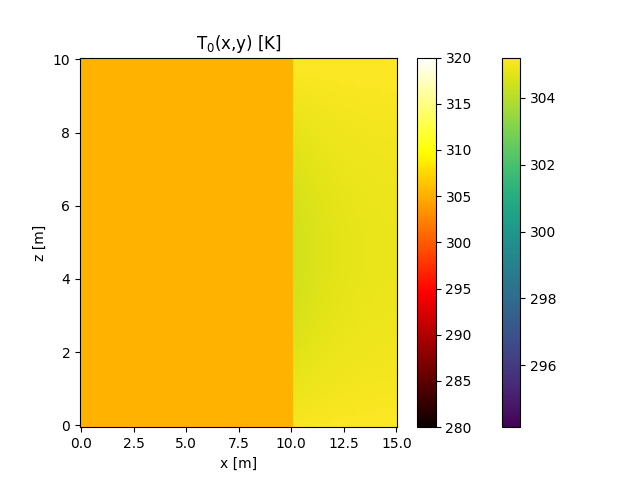
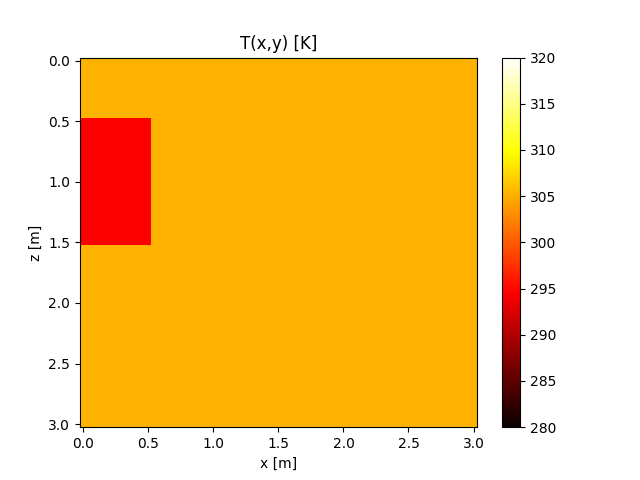
Distribution initiale

diff --git a/methode_matrice_2D.py b/methode_matrice_2D.py
@@ -30,7 +30,9 @@ def methode_matrice_2D_A(planete, p, l_x, l_z, Lx, Lz, d , sparse = True, abri=T
 
     else : # Matrices creuses
      A=np.zeros((Nx*Nz,Nx*Nz),dtype=np.double)
-        
+     M=np.zeros((Nx*Nz,Nx*Nz),dtype=np.double)
+
+
     def Aindex(i,j): #Associé la case i,j à sa colone dans la matrice M
          index=(j-1)*Nz+i
          return index-1
@@ -148,45 +150,45 @@ def methode_matrice_2D_b(planete, p, l_x, l_z, Lx, Lz, temps, d, abri=True):
 
     return b
 
-# Variables pouvant changer
-p=3 # (m)
-l_x=3 # (m)
-l_z=3 #(m)
-Lx=15 #(m)
-Lz=10 #(m)
-temps=0 #(s)
-d=0.1 #(m)
-Nx=int(np.rint(Lx/d+1)) # Nombre de nœuds le long de X
-Nz=int(np.rint(Lz/d+1)) # Nombre de nœuds le long de Z
+# # Variables pouvant changer
+# p=3 # (m)
+# l_x=3 # (m)
+# l_z=3 #(m)
+# Lx=15 #(m)
+# Lz=10 #(m)
+# temps=0 #(s)
+# d=0.1 #(m)
+# Nx=int(np.rint(Lx/d+1)) # Nombre de nœuds le long de X
+# Nz=int(np.rint(Lz/d+1)) # Nombre de nœuds le long de Z
 
-with open('constants.yaml') as f:
-    planets_constants = yaml.safe_load(f)
+# with open('constants.yaml') as f:
+#     planets_constants = yaml.safe_load(f)
 
-# Obtention des matrices et du maillage
+# # Obtention des matrices et du maillage
 
-A, M = methode_matrice_2D_A(planets_constants['earth'], p=p, l_x=l_x, l_z=l_z, Lx=Lx, Lz=Lz, d =d, sparse=True)
-b = methode_matrice_2D_b(planets_constants['earth'], p=p, l_x=l_x, l_z=l_z, Lx=Lx, Lz=Lz, temps = temps, d =d)
+# A, M = methode_matrice_2D_A(planets_constants['earth'], p=p, l_x=l_x, l_z=l_z, Lx=Lx, Lz=Lz, d =d, sparse=True)
+# b = methode_matrice_2D_b(planets_constants['earth'], p=p, l_x=l_x, l_z=l_z, Lx=Lx, Lz=Lz, temps = temps, d =d)
 
-# Résolution du système d'équations
-T=np.zeros((Nx*Nz,1),dtype=np.double)
-Tr=np.zeros((Nz,Nx),dtype=np.double)
+# # Résolution du système d'équations
+# T=np.zeros((Nx*Nz,1),dtype=np.double)
+# Tr=np.zeros((Nz,Nx),dtype=np.double)
 
-z = np.linspace(0, Lz, Nz)
-x= np.linspace(0, Lx, Nx)
+# z = np.linspace(0, Lz, Nz)
+# x= np.linspace(0, Lx, Nx)
 
-T = spsolve(A.tocsr(), b) # À utiliser si matrice pleine
+# T = spsolve(A.tocsr(), b) # À utiliser si matrice pleine
 
-# T = np.linalg.solve(A, b) # À utiliser is matrice creuse
+# # T = np.linalg.solve(A, b) # À utiliser is matrice creuse
 
-Tr=np.reshape(T,(Nz,Nx),order='F') # Convertion du vecteur colone de température en matrice dépendant de la position : T_ij->T(x,y)
+# Tr=np.reshape(T,(Nz,Nx),order='F') # Convertion du vecteur colone de température en matrice dépendant de la position : T_ij->T(x,y)
 
-# Affichage des données
-plt.figure(1)
-plt.pcolor(x,z,Tr)
-plt.colorbar(mappable=None, cax=None, ax=None)
-plt.title('T(x,y) [K]')
-plt.xlabel('x [m]')
-plt.ylabel('z [m]')
-plt.gca().invert_yaxis()
-plt.savefig('indepTemps.png')
+# # Affichage des données
+# plt.figure(1)
+# plt.pcolor(x,z,Tr)
+# plt.colorbar(mappable=None, cax=None, ax=None)
+# plt.title('T(x,y) [K]')
+# plt.xlabel('x [m]')
+# plt.ylabel('z [m]')
+# plt.gca().invert_yaxis()
+# plt.savefig('indepTemps.png')
 

diff --git a/methode_matrice_2D_temporelle-new.py b/methode_matrice_2D_temporelle-new.py
@@ -25,7 +25,7 @@ def methode_matrice_2D_temporelle (planete, p, l_x, l_z, Lx, Lz, d ):
 
     alpha=C_p*rho/K
 
-    xi =0.5
+    xi =1
 
     # Calcul du nombre de points en x et z
     Nx=int(np.rint(Lx/d+1)) # Nombre de nœuds le long de X
@@ -34,8 +34,8 @@ def methode_matrice_2D_temporelle (planete, p, l_x, l_z, Lx, Lz, d ):
     x= np.linspace(0, Lx, Nx)
 
     # Calcul de la distribution initiale
-    # U0 = distributionInitiale(Nx, Nz, Lx, Lz, T_s)
-    U0 = np.full((Nx*Nz,1), T_s)
+    U0 = distributionInitiale(Nx, Nz, Lx, Lz, T_s, l_x, l_z, p)
+    # U0 = np.full((Nx*Nz,1), T_s)
     U0r = np.reshape(U0,(Nz,Nx),order='F')
     plot_temperature(x,z,U0r, 'distribInitiale') # Graphique de Distribution initiale
 
@@ -46,8 +46,8 @@ def methode_matrice_2D_temporelle (planete, p, l_x, l_z, Lx, Lz, d ):
     b0 = methode_matrice_2D_b(planete, p, l_x, l_z, Lx, Lz, temps=0, d=d, abri=abri)
 
     # Définition du pas de temps
-    dt = np.min([alpha*d**2/4, tau/20 ])
-    nb_iterations = 320
+    dt = np.min([alpha*d**2/2, tau/5 ])
+    nb_iterations = 120
     temps_deval = dt*nb_iterations
 
     if dt>(alpha*d**2) or dt>tau/10 :
@@ -87,8 +87,21 @@ def methode_matrice_2D_temporelle (planete, p, l_x, l_z, Lx, Lz, d ):
 
         b_prime = b_prime_1 - b_prime_2
 
+        def Aindex(i,j): #Associé la case i,j à sa colone dans la matrice M
+            index=(j-1)*Nz+i
+            return index-1
+
+        
+
+
         Un_1 = spsolve(A_prime, b_prime)
+        # for i in np.arange(1,Nz+1,1): #i=1,..,Nz - numérotation des nœuds sur un maillage physique
+        #     for j in np.arange(1,Nx+1,1): #j=1,..,Nx - numérotation des nœuds sur un maillage physique
+        #         if i > p/d+1  and i < (l_z+p)/d+1 and j < l_x/(2*d)+1 and abri:
+        #             Un_1[Aindex(i,j)] = 294.15
+        #         else : continue
         Un=Un_1
+
 
         # Plot du graphique au temps t
         Unr = np.reshape(Un_1,(Nz,Nx),order='F')
@@ -107,12 +120,12 @@ CALCUL TERMINÉ : ANIMATION SAUVEGARDÉE
 with open('constants.yaml') as f:
     planets_constants = yaml.safe_load(f)
 
-p = 3   # Profondeur de l'abris [m]
-l_x = 3 # Largeur de l'abris en x [m]
-l_z = 3 # Hauteur de l'abris en z [m]
-Lx = 10 # Largeur du domaine [m]
-Lz = 10 # Hauteur du domaine [m]
-d = 0.1  # Pas de discrétisation [m]
+p = 0.5   # Profondeur de l'abris [m]
+l_x = 1 # Largeur de l'abris en x [m]
+l_z = 1 # Hauteur de l'abris en z [m]
+Lx = 3 # Largeur du domaine [m]
+Lz = 3 # Hauteur du domaine [m]
+d = 0.05  # Pas de discrétisation [m]
 
 
 methode_matrice_2D_temporelle(planets_constants['earth'],  p, l_x, l_z, Lx, Lz, d)

diff --git a/distributionInitiale.py b/distributionInitiale.py
@@ -1,25 +1,48 @@
 import numpy as np    
 
 
-# Définition de la distribution initiale
-def distributionInitiale (Nx, Nz, Lx, Lz, Ts):
-        # Création d'une grille Nx par Nz
-        x = np.linspace(0, Lx, Nx)
-        z = np.linspace(0, Lz, Nz)
-        X, Z = np.meshgrid(x, z)
+# Définition de la distribution Gaussienne centrée
+# def distributionInitiale (Nx, Nz, Lx, Lz, Ts):
+#         # Création d'une grille Nx par Nz
+#         x = np.linspace(0, Lx, Nx)
+#         z = np.linspace(0, Lz, Nz)
+#         X, Z = np.meshgrid(x, z)
 
-        # Paramètres de la gaussienne centrée
-        sigma_x = Lx / 20  # Largeur de la gaussienne en x
-        sigma_z = Lz / 20  # Largeur de la gaussienne en z
-        mu_x = Lx / 2      # Position x du centre de la gaussienne
-        mu_z = Lz / 2      # Position z du centre de la gaussienne
+#         # Paramètres de la gaussienne centrée
+#         sigma_x = Lx / 20  # Largeur de la gaussienne en x
+#         sigma_z = Lz / 20  # Largeur de la gaussienne en z
+#         mu_x = Lx / 2      # Position x du centre de la gaussienne
+#         mu_z = Lz / 2      # Position z du centre de la gaussienne
 
-        # Calcul de la distribution gaussienne 2D
-        gauss_dist = np.exp(-((X-mu_x)**2 / (2 * sigma_x**2) + (Z-mu_z)**2 / (2 * sigma_z**2)))
+#         # Calcul de la distribution gaussienne 2D
+#         gauss_dist = np.exp(-((X-mu_x)**2 / (2 * sigma_x**2) + (Z-mu_z)**2 / (2 * sigma_z**2)))
 
-        # Ajustement pour le minimum et le maximum
-        gauss_dist = Ts + (2 * Ts - Ts) * gauss_dist
+#         # Ajustement pour le minimum et le maximum
+#         gauss_dist = Ts + (2 * Ts - Ts) * gauss_dist
 
-        gauss_dist_col = np.ravel(gauss_dist, order='F')
+#         gauss_dist_col = np.ravel(gauss_dist, order='F')
 
-        return gauss_dist_col
+#         return gauss_dist_col
+
+
+# Définition de la distribution initiale avec abri
+def distributionInitiale(Nx, Nz, Lx, Lz, Ts, lx, lz, p):
+    # Création d'une grille Nx par Nz
+    x = np.linspace(0, Lx, Nx)
+    z = np.linspace(0, Lz, Nz)
+    X, Z = np.meshgrid(x, z)
+
+    # Initialisation de la distribution de température
+    init_dist = np.zeros((Nz, Nx))
+
+    # Parcours de chaque point de la grille
+    for i in range(Nz):
+        for j in range(Nx):
+            if X[i, j] <= lx/2 and (p + lz) >= Z[i, j] >= p:
+                init_dist[i, j] = 294.5  # Inside the domain
+            else:
+                init_dist[i, j] = Ts  # Outside the domain
+
+    init_dist_col = np.ravel(init_dist, order='F')
+
+    return init_dist_col

diff --git a/plot_temperature.py b/plot_temperature.py
@@ -5,7 +5,7 @@ import matplotlib.pyplot as plt
 def plot_temperature (x, z, Tr, label):
     plt.pcolor(x, z, Tr, cmap='hot', vmin=280, vmax=320)
     plt.colorbar(mappable=None, cax=None, ax=None)
-    plt.title('T$_0$(x,y) [K]')
+    plt.title('T(x,y) [K]')
     plt.xlabel('x [m]')
     plt.ylabel('z [m]')
     plt.gca().invert_yaxis()
